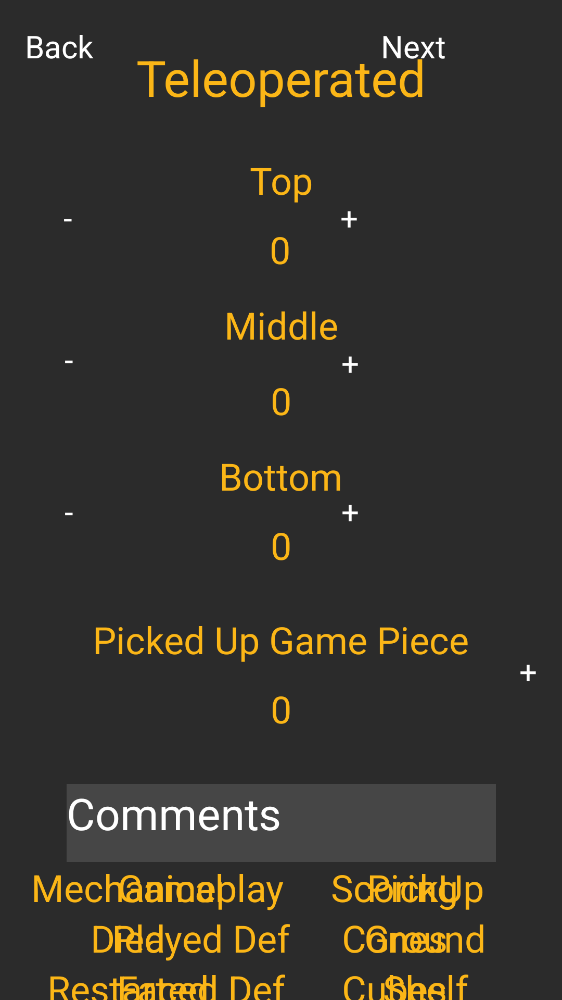
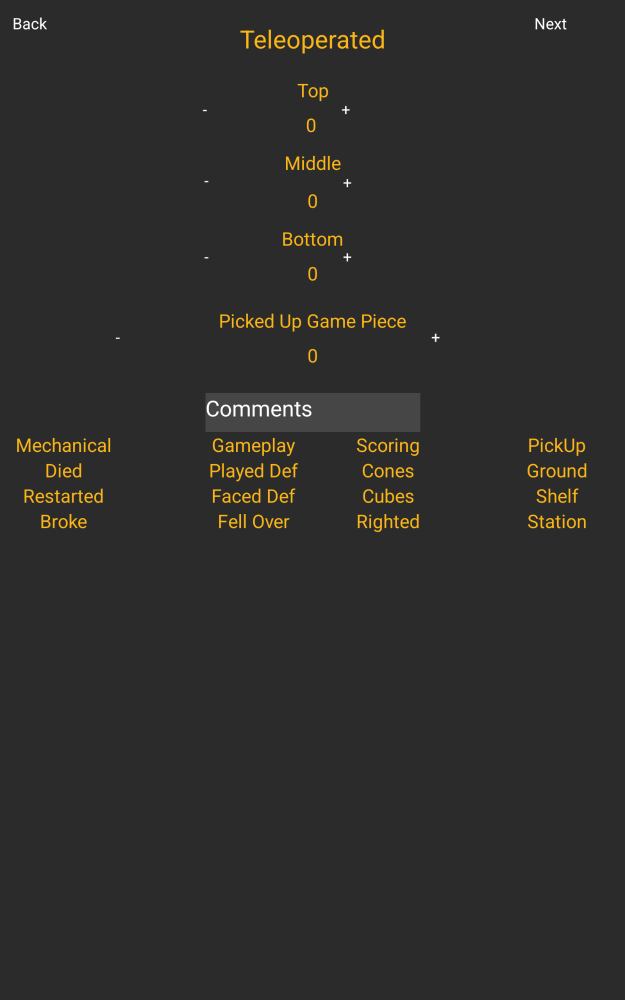
Fix tablet screenshots and correct 2025 rewrite description (#2)
* Fix tablet screenshots and correct 2025 rewrite description

Screenshots:
- Re-render all screens using NEXUS_10 in landscape (2560x1600 at xhdpi = 1280x800dp)
- This matches the 10.1" tablets Team 1730 scouted on with fixed dp layouts
- Fixes: clipped text ('Scout N...', 'er Grid'), overlapping elements,
  Charge Station dropdown covering Comments field
- Convert screenshot test from Java to Kotlin for cleaner Paparazzi API usage
- Add Kotlin plugin to build configuration
- Create cropped QR screenshot (05_qr_cropped.png) for README display
- Keep full QR screenshot (05_qr_full.png) for reference

README fixes:
- Use cropped QR screenshot in gallery
- Fix 2025 description: QR was never replaced, only Excel was
- Change 'Dart/Flutter + SQL' to 'Dart/Flutter + Python + SQLite'
- Clarify: Flutter generates QR, Python intake app scans and inserts to SQLite

* Generate real QR code screenshot instead of placeholder

- Build sample JSON payload in app's exact format (team 99901, scout 'Demo Scout')
- Use QRGEncoder with same settings as QrActivity (backgroundGray/testYellow colors)
- Set generated QR bitmap on ImageView before Paparazzi snapshot
- Replace placeholder 'BRO NICE JOB' face photo with actual scannable QR code
- Remove 05_qr_cropped.png and 05_qr_full.png (both had placeholder)
- Add single 05_qr.png with real QR code
- Update README caption to describe demo payload instead of placeholder

* Fix orientation: re-render all screenshots in portrait mode
[…]

diff --git a/app/src/test/kotlin/com/example/a2023_scoutingapp/screenshots/ScreenshotTest.kt b/app/src/test/kotlin/com/example/a2023_scoutingapp/screenshots/ScreenshotTest.kt
@@ -1,0 +1,118 @@
+package com.example.a2023_scoutingapp.screenshots
+
+import android.view.LayoutInflater
+import android.widget.ImageView
+import app.cash.paparazzi.DeviceConfig
+import app.cash.paparazzi.Paparazzi
+import com.android.resources.ScreenOrientation
+import com.example.a2023_scoutingapp.R
+import com.example.qrgenearator.QRGContents
+import com.example.qrgenearator.QRGEncoder
+import org.junit.Rule
+import org.junit.Test
+
+class ScreenshotTest {
+
+    // 10.1" tablet in portrait (1600x2560 px at xhdpi = 800x1280 dp)
+    // Team 1730's scouting tablets were portrait-locked
+    // Layout analysis: 550dp field image fits in 800dp width with margins
+    private val tabletPortrait = DeviceConfig.NEXUS_10.copy(
+        orientation = ScreenOrientation.PORTRAIT
+    )
+
+    @get:Rule
+    val paparazzi = Paparazzi(deviceConfig = tabletPortrait)
+
+    @Test
+    fun main_pregame() {
+        val view = LayoutInflater.from(paparazzi.context)
+            .inflate(R.layout.activity_main, null)
+        paparazzi.snapshot(view, "main")
+    }
+
+    @Test
+    fun auto_screen() {
+        val view = LayoutInflater.from(paparazzi.context)
+            .inflate(R.layout.activity_auto, null)
+        paparazzi.snapshot(view, "auto")
+    }
+
+    @Test
+    fun tele_screen() {
+        val view = LayoutInflater.from(paparazzi.context)
+            .inflate(R.layout.activity_tele, null)
+        paparazzi.snapshot(view, "tele")
+    }
+
+    @Test
+    fun endgame_screen() {
+        val view = LayoutInflater.from(paparazzi.context)
+            .inflate(R.layout.activity_endgame, null)
+        paparazzi.snapshot(view, "endgame")
+    }
+
+    @Test
+    fun qr_screen() {
+        val view = LayoutInflater.from(paparazzi.context)
+            .inflate(R.layout.activity_qr, null)
+        
+        // Generate a realistic QR code using the same method as the app
+        // Sample payload: fake team 99901, scout "Demo Scout", realistic match data
+        val sampleJson = buildSamplePayload()
+        
+        // Use the app's QRGEncoder with the same settings as QrActivity
+        val qrgEncoder = QRGEncoder(sampleJson, null, QRGContents.Type.TEXT, 200)
+        
+        // Match the app's color scheme: backgroundGray for "black", testYellow for "white"
+        val backgroundGray = 0xFF2b2b2b.toInt()
+        val testYellow = 0xFFe8bf6a.toInt()
+        qrgEncoder.setColorBlack(backgroundGray)
+        qrgEncoder.setColorWhite(testYellow)
+        
+        val qrBitmap = qrgEncoder.bitmap
+        val qrImageView = view.findViewById<ImageView>(R.id.qrImageView)
+        qrImageView.setImageBitmap(qrBitmap)
+        
+        paparazzi.snapshot(view, "qr")
+    }
+    
+    /**
+     * Builds a sample JSON payload in the exact format RecordsActivity.Info.CreateJSON() produces.
+     * Uses fake team 99901 and scout "Demo Scout" with realistic match data.
+     */
+    private fun buildSamplePayload(): String {
+        return buildString {
+            append("{\"ScoName\": \"Demo Scout\",")
+            append("\"MNum\": \"42\",")
+            append("\"TNum\": \"99901\",")
+            append("\"RPos\": \"1\",")           // ChargeStation position
+            append("\"PLoad\": \"1\",")          // Cone preloaded
+            append("\"Mob\": \"1\",")            // Mobility achieved
+            append("\"AGrid\": \"1\",")          // Coop grid
+            append("\"ATop\": \"2\",")           // 2 top scores in auto
+            append("\"AMid\": \"1\",")           // 1 mid score in auto
+            append("\"ABot\": \"0\",")           // 0 bottom scores
+            append("\"ACom\": \"Clean auto path\",")
+            append("\"ACharStat\": \"0\",")      // Engaged in auto
+            append("\"Died\": \"0\",")
+            append("\"RStart\": \"0\",")
+            append("\"Broke\": \"0\",")
+            append("\"DefPlay\": \"1\",")        // Played defense
+            append("\"DefFace\": \"0\",")
+            append("\"Fell\": \"0\",")
+            append("\"Righted\": \"0\",")
+            append("\"Cones\": \"1\",")          // Scored cones
+            append("\"Cubes\": \"1\",")          // Scored cubes
+            append("\"GroGrab\": \"1\",")        // Ground pickup
+            append("\"SubGrab\": \"1\",")        // Substation pickup
+            append("\"ShGrab\": \"0\",")
+            append("\"TTop\": \"5\",")           // 5 top scores in tele
+            append("\"TMid\": \"3\",")           // 3 mid scores
+            append("\"TBot\": \"2\",")           // 2 bottom scores
+            append("\"GPiece\": \"10\",")        // 10 game pieces picked
+            append("\"TCom\": \"Fast cycles\",")
+            append("\"ECharSta\": \"0\",")       // Engaged in endgame
+            append("\"ECom\": \"Balanced with alliance\",}")
+        }
+    }
+}

diff --git a/README.md b/README.md
@@ -44,7 +44,7 @@ Sophomore year, I took over as the solo developer. This was my first time owning
   </tr>
 </table>
 
-<sub>Screenshots rendered via <a href="https://github.com/cashapp/paparazzi">Paparazzi</a> layout testing. The QR screen shows the placeholder image; in actual use, it displays the generated QR code.</sub>
+<sub>Screenshots rendered via <a href="https://github.com/cashapp/paparazzi">Paparazzi</a> layout testing. The QR code contains a sample payload for demo team 99901.</sub>
 
 ## Architecture
 
@@ -254,9 +254,9 @@ This app was the starting point. Each season I iterated on what worked and rebui
 |--------|-----|-------|-------|
 | 2024 | [Match Scouting](https://github.com/aamir-frc-scouting/frc-scouting-app-2024) | Java/Android | 5 events, 55K data points |
 | 2024 | [Pit Scouting](https://github.com/aamir-frc-scouting/frc-pit-scouting-app-2024) | Java/Android | 230 teams scouted |
-| 2025 | [Match + Pit Suite](https://github.com/aamir-frc-scouting/frc-scouting-app-2025) | **Dart/Flutter + SQL** | Cross-platform rewrite |
+| 2025 | [Match + Pit Suite](https://github.com/aamir-frc-scouting/frc-scouting-app-2025) | Dart/Flutter + Python + SQLite | Cross-platform rewrite |
 
-The 2025 rewrite replaced QR+Excel with a proper SQL database — the result of everything I learned building these apps.
+The 2025 rewrite kept the QR transfer but replaced Excel with SQLite: Flutter apps generate the QR, and a Python intake app scans, validates, and inserts each record so strategy questions become SQL queries.
 
 ## Tech Stack
 
